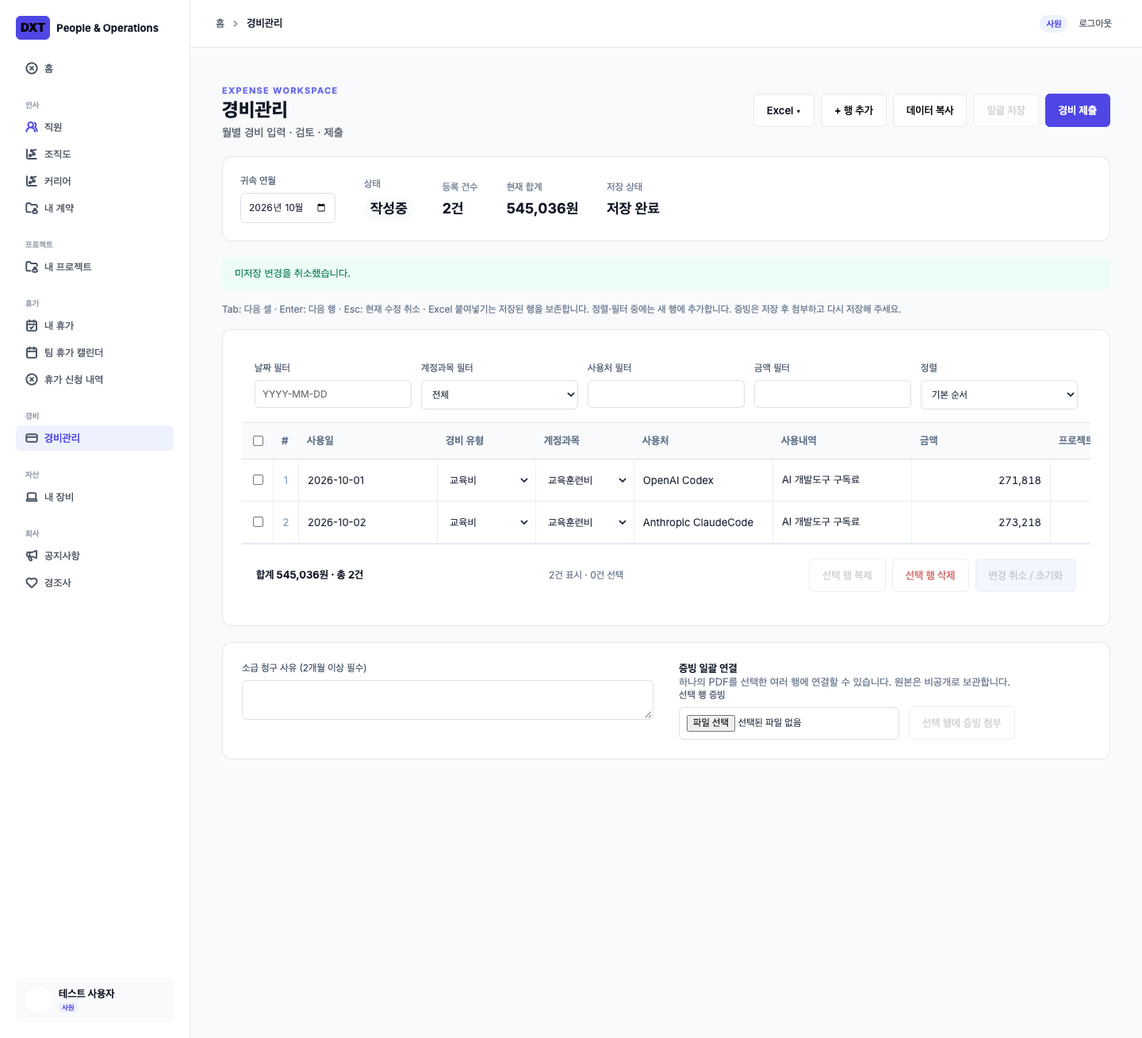
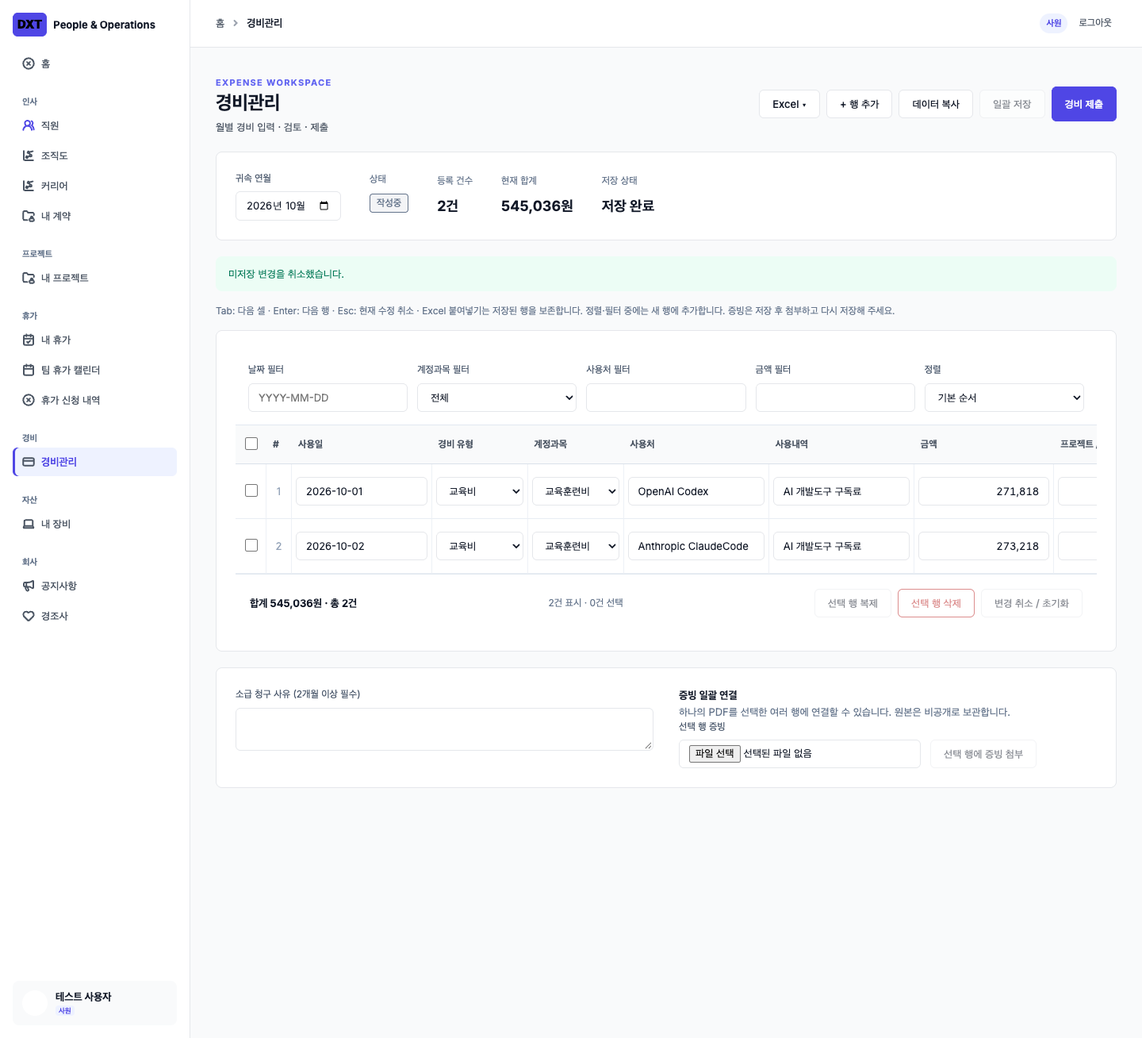
Restore submitted expense editing until payment lock

diff --git a/src/components/expenses/grid.tsx b/src/components/expenses/grid.tsx
@@ -1,4 +1,5 @@
 'use client';
+import { StatusTag } from '@/components/ui/primitives';
 import { useRouter } from 'next/navigation';
 import { memo, useCallback, useEffect, useMemo, useRef, useState } from 'react';
 import { saveExpenseGrid, previewExpenseGrid, uploadGridReceipt, submitExpenseGrid } from '@/app/actions/expenses';
@@ -45,11 +46,12 @@ export function ExpenseGrid({month,initialClaim,initialItems,initialAttachments,
  const errors=[...problems.values()].flat().filter(p=>p.severity==='ERROR');
  const accept=(d:{claim:Claim;items:ItemInput[];attachments:Attachment[]})=>{const order=new Map(rows.map((r,n)=>[r.id,n]));const saved=d.items.map(cleanItem).sort((a,b)=>(order.get(a.id)??rows.length)-(order.get(b.id)??rows.length));setClaim(d.claim);setRows(saved);setBaseline(saved);setAttachments(d.attachments);setReason(d.claim.late_reason);setSelected([]);};
  async function save(){setBusy(true);setError('');try{const result=await saveExpenseGrid(JSON.stringify({claimId:claim?.id||null,month,version:claim?.version||0,items:rows,deleted:baseline.filter(r=>!rows.some(x=>x.id===r.id)).map(({id,version})=>({id,version})),reason}));if('detail'in result&&result.detail){accept(result.detail);setMessage('저장 완료');}else setError(('error'in result?result.error:undefined)||'저장하지 못했습니다.');}finally{setBusy(false);}}
- async function submit(){setBusy(true);setError('');try{const result=await submitExpenseGrid(claim!.id,claim!.version,reason);if('detail'in result&&result.detail){accept(result.detail);setMessage('제출 완료 · 읽기 전용');setConfirmSubmit(false);}else setError(('error'in result?result.error:undefined)||'제출하지 못했습니다.');}finally{setBusy(false);}}
+ async function submit(){setBusy(true);setError('');try{const result=await submitExpenseGrid(claim!.id,claim!.version,reason);if('detail'in result&&result.detail){accept(result.detail);setMessage('제출 완료 · 지급/잠금 전까지 수정 가능');setConfirmSubmit(false);}else setError(('error'in result?result.error:undefined)||'제출하지 못했습니다.');}finally{setBusy(false);}}
  async function upload(form:HTMLFormElement,ids:string[]){if(!claim)return;setBusy(true);setError('');try{const result=await uploadGridReceipt(claim.id,new FormData(form));if('id'in result&&result.id){setRows(prev=>prev.map(r=>ids.includes(r.id)?{...r,attachment_id:result.id}:r));setAttachments(prev=>[...prev,{id:result.id,claim_id:claim.id,filename:result.filename,mime_type:'',byte_size:0,ready:true,storage_path:''}]);setMessage('증빙을 연결했습니다. 일괄 저장해 주세요.');}else setError(('error'in result?result.error:undefined)||'업로드 실패');}finally{setBusy(false);}}
  return <div className="expense-workspace">
- <header className="page-heading heading-row"><div><p className="grid-eyebrow">EXPENSE WORKSPACE{employeeName?` · ${employeeName}`:''}</p><h1>{admin?'경비 검토':'경비관리'}</h1><p>월별 경비 입력 · 검토 · 제출</p></div><div className="grid-actions"><details><summary className="button">Excel ▾</summary><div className="grid-menu"><a href={`/api/expenses/template?month=${month}`}>템플릿 다운로드</a>{!readonly&&<button onClick={()=>setImportOpen(v=>!v)}>Excel Import</button>}<a href={claim?`/api/expenses/export?claim=${claim.id}${admin?'&admin=1':''}`:undefined} aria-disabled={!claim}>Excel Export (저장된 내역)</a></div></details>{!readonly&&<button className="button" disabled={busy||rows.length>=500} onClick={()=>setRows(prev=>[...prev,blankRow(month,crypto.randomUUID())])}>+ 행 추가</button>}<button className="button" onClick={async()=>{try{await navigator.clipboard.writeText(rows.filter(r=>!selected.length||selected.includes(r.id)).map(r=>GRID_COLUMNS.map(k=>String(k==='expense_type'?PURPOSES[r.expense_type]:r[k]||'').replace(/[\t\r\n]/g,' ')).join('\t')).join('\n'));setMessage('선택한 데이터를 복사했습니다.');}catch{setError('브라우저의 클립보드 권한을 확인해 주세요.');}}}>데이터 복사</button>{!readonly&&<><button className="button" disabled={busy||!dirty||errors.length>0} onClick={save}>{busy?'처리 중…':'일괄 저장'}</button><button className="button primary" disabled={busy||dirty||!claim||!rows.length||errors.length>0} onClick={()=>setConfirmSubmit(true)}>경비 제출</button></>}</div></header>
- <section className="surface grid-overview"><label>귀속 연월<input aria-label="귀속 연월" type="month" value={month} onChange={e=>{if(!dirty||window.confirm('미저장 변경을 버리고 귀속월을 변경할까요?'))router.push(`${admin?'/admin':''}/expenses?month=${e.target.value}`);}}/></label><div><span>상태</span><strong className="expense-badge">{claim?STATUS[claim.status]:'작성 중'}{readonly?' · 읽기 전용':''}</strong></div><div><span>등록 건수</span><strong>{rows.length}건</strong></div><div><span>현재 합계</span><strong>{money(total)}원</strong></div><div><span>저장 상태</span><strong>{busy?'저장 중':dirty?'미저장 변경 있음':'저장 완료'}</strong></div></section>
+ <header className="page-heading heading-row"><div><p className="grid-eyebrow">EXPENSE WORKSPACE{employeeName?` · ${employeeName}`:''}</p><h1>{admin?'경비 검토':'경비관리'}</h1><p>월별 경비 입력 · 검토 · 제출</p></div><div className="grid-actions"><details><summary className="button">Excel ▾</summary><div className="grid-menu"><a href={`/api/expenses/template?month=${month}`}>템플릿 다운로드</a>{!readonly&&<button onClick={()=>setImportOpen(v=>!v)}>Excel Import</button>}<a href={claim?`/api/expenses/export?claim=${claim.id}${admin?'&admin=1':''}`:undefined} aria-disabled={!claim}>Excel Export (저장된 내역)</a></div></details>{!readonly&&<button className="button" disabled={busy||rows.length>=500} onClick={()=>setRows(prev=>[...prev,blankRow(month,crypto.randomUUID())])}>+ 행 추가</button>}<button className="button" onClick={async()=>{try{await navigator.clipboard.writeText(rows.filter(r=>!selected.length||selected.includes(r.id)).map(r=>GRID_COLUMNS.map(k=>String(k==='expense_type'?PURPOSES[r.expense_type]:r[k]||'').replace(/[\t\r\n]/g,' ')).join('\t')).join('\n'));setMessage('선택한 데이터를 복사했습니다.');}catch{setError('브라우저의 클립보드 권한을 확인해 주세요.');}}}>데이터 복사</button>{!readonly&&<><button className="button" disabled={busy||!dirty||errors.length>0} onClick={save}>{busy?'처리 중…':'일괄 저장'}</button>{claim?.status!=='SUBMITTED'&&<button className="button primary" disabled={busy||dirty||!claim||!rows.length||errors.length>0} onClick={()=>setConfirmSubmit(true)}>경비 제출</button>}</>}</div></header>
+ <section className="surface grid-overview"><label>귀속 연월<input aria-label="귀속 연월" type="month" value={month} onChange={e=>{if(!dirty||window.confirm('미저장 변경을 버리고 귀속월을 변경할까요?'))router.push(`${admin?'/admin':''}/expenses?month=${e.target.value}`);}}/></label><div><span>상태</span><StatusTag status={claim?.status}>{claim?STATUS[claim.status]:'작성 중'}{readonly?' · 읽기 전용':''}</StatusTag></div><div><span>등록 건수</span><strong>{rows.length}건</strong></div><div><span>현재 합계</span><strong>{money(total)}원</strong></div><div><span>저장 상태</span><strong>{busy?'저장 중':dirty?'미저장 변경 있음':'저장 완료'}</strong></div></section>
+ {claim?.status==='SUBMITTED'&&!readonly&&<p className="grid-help">제출한 경비입니다. 지급 예정일 {claim.payment_date?.slice(0,10)||'15일'}까지 수정할 수 있으며, 지급 처리·잠금 이후에는 수정할 수 없습니다. 변경 후 일괄 저장하면 제출 내역에 반영됩니다. 새 행도 증빙을 첨부한 뒤 저장해 주세요.</p>}
  {message&&<p className="success-banner" role="status">{message}</p>}{error&&<p role="alert" className="form-error">{error}</p>}
  {!readonly&&<p className="grid-help">Tab: 다음 셀 · Enter: 다음 행 · Esc: 현재 수정 취소 · Excel 붙여넣기는 저장된 행을 보존합니다. 정렬·필터 중에는 새 행에 추가합니다. 증빙은 저장 후 첨부하고 다시 저장해 주세요.</p>}
  {importOpen&&!readonly&&<form className="surface grid-import-panel" onSubmit={async e=>{e.preventDefault();const form=new FormData(e.currentTarget);setBusy(true);setError('');try{const result=await previewExpenseGrid(form);if(result.preview){setImportProblems(result.preview.problems.filter(p=>p.code==='SCHEMA'||p.code==='LEGACY_SUMMARY_IGNORED'));if(result.preview.problems.some(p=>p.code==='SCHEMA'&&p.severity==='ERROR')){setError('Excel 구조 오류를 수정한 뒤 다시 가져와 주세요.');return;}const next=importRows(rows,result.preview.items,form.get('mode')==='replace'?'replace':'append');if(next.length>500)throw new Error('최대 500행까지 입력할 수 있습니다.');setRows(next);setMessage('Excel을 작업 사본으로 가져왔습니다. 수정 후 일괄 저장해 주세요.');}else setError(('error'in result?result.error:undefined)||'가져오기 실패');}catch(err){setError((err as Error).message);}finally{setBusy(false);}}}><h2>Excel을 Grid로 가져오기</h2><input type="hidden" name="month" value={month}/><div className="field-grid"><label>Excel 파일 (.xlsx)<input name="workbook" type="file" accept=".xlsx" required/></label><label>차량 사용일 (기존 양식)<input name="vehicle_date" type="date" defaultValue={month+'-01'}/></label><label>가져오기 방식<select name="mode"><option value="append">기존 행에 추가</option><option value="replace">미저장 신규 행 교체 (저장된 행 유지)</option></select></label></div><button className="button" disabled={busy}>Grid 미리보기</button>{importProblems.map((p,i)=><p key={i} className={p.severity==='ERROR'?'form-error':'expense-warning'}>{p.origin} · {p.message}</p>)}</form>}
@@ -61,6 +63,6 @@ export function ExpenseGrid({month,initialClaim,initialItems,initialAttachments,
  {['FUEL','TOLL'].includes(detail.expense_type)&&<section className="expense-vehicle"><h3>차량 이동 상세</h3><div className="field-grid">{(['project_or_trip_name','origin','destination','one_way_amount','trip_count'] as const).map((key,i)=><label key={key}>{['프로젝트 / 출장명','출발지','도착지','편도 금액 (원)','횟수'][i]}<input type={i>2?'number':'text'} value={detail.vehicle?.[key]||''} onChange={e=>{const v={project_or_trip_name:detail.trip_context,origin:'',destination:'',one_way_amount:0,trip_count:1,...detail.vehicle,[key]:i>2?Number(e.target.value):e.target.value};onChange(detail.id,{vehicle:v,amount:v.one_way_amount*v.trip_count,legacy_summary:false,trip_context:v.project_or_trip_name});}}/></label>)}</div><strong>계산 금액 {money(detail.amount)}원</strong><p>편도금액 × 횟수 · 서버에서 다시 계산합니다.</p></section>}
  {detail.expense_type==='DINING'&&<section><h3>회식 참석자 / 월 한도 사용액</h3>{employees.map(e=>{const attendee=detail.attendees.find(a=>a.employee_id===e.id);return <div key={e.id} className="attendee-row"><label><input type="checkbox" checked={!!attendee} onChange={event=>onChange(detail.id,{attendees:event.target.checked?[...detail.attendees,{employee_id:e.id,allocated_amount:0}]:detail.attendees.filter(a=>a.employee_id!==e.id)})}/>{e.name} · {e.company_email}</label>{attendee&&<input aria-label={`${e.name} 한도 사용액`} type="number" min="1" max="30000" value={attendee.allocated_amount} onChange={event=>onChange(detail.id,{attendees:detail.attendees.map(a=>a.employee_id===e.id?{...a,allocated_amount:Number(event.target.value)}:a)})}/>}</div>;})}</section>}
  <label>비고<textarea value={detail.notes} maxLength={2000} onChange={e=>onChange(detail.id,{notes:e.target.value})}/></label></fieldset><div>{detail.attachment_id&&<a href={`/api/expenses/receipts/${detail.attachment_id}`}>{attachments.find(a=>a.id===detail.attachment_id)?.filename||'증빙'} 다운로드</a>}{!readonly&&<form onSubmit={e=>{e.preventDefault();void upload(e.currentTarget,[detail.id]);}}><label>영수증 / 증빙<input type="file" name="receipt" accept="application/pdf,image/png,image/jpeg" required disabled={!claim||busy}/></label><button className="button" disabled={!claim||busy}>이 행에 증빙 첨부</button></form>}</div></aside>}
- {confirmSubmit&&<section role="region" aria-label="경비 제출 확인" className="surface grid-confirm"><h2>월 경비를 제출할까요?</h2><p>{rows.length}건 · {money(total)}원. 제출 후에는 수정할 수 없습니다.</p>{[...claimProblems(month,reason),...[...problems.values()].flat()].map((p,i)=><p className="expense-warning" key={i}>{p.message}</p>)}<div className="grid-actions"><button className="button" disabled={busy} onClick={()=>setConfirmSubmit(false)}>돌아가기</button><button className="button primary" disabled={busy} onClick={submit}>확인 후 제출</button></div></section>}
+ {confirmSubmit&&<section role="region" aria-label="경비 제출 확인" className="surface grid-confirm"><h2>월 경비를 제출할까요?</h2><p>{rows.length}건 · {money(total)}원. 제출 후에도 지급일(15일)까지 수정할 수 있습니다. 지급 처리·잠금 또는 지급 기간 종료 후에는 읽기 전용입니다.</p>{[...claimProblems(month,reason),...[...problems.values()].flat()].map((p,i)=><p className="expense-warning" key={i}>{p.message}</p>)}<div className="grid-actions"><button className="button" disabled={busy} onClick={()=>setConfirmSubmit(false)}>돌아가기</button><button className="button primary" disabled={busy} onClick={submit}>확인 후 제출</button></div></section>}
  </div>;
 }

diff --git a/src/components/expenses/screens.tsx b/src/components/expenses/screens.tsx
@@ -1,3 +1,4 @@
+import { StatusTag } from '@/components/ui/primitives';
 import { ExpenseGrid } from './grid';
 import Link from 'next/link';
 import { notFound } from 'next/navigation';
@@ -8,8 +9,8 @@ import type { SearchParams } from '@/lib/employees/data';
 import { ClaimAction, ExpenseForm, ImportForm } from './forms';
 const money=(v:number)=>`₩${v.toLocaleString('ko-KR')}`;
 function Policy(){return <aside className="surface expense-policy"><h2>경비 등록 안내</h2><dl><dt>야근식대</dt><dd>10,000원 초과 시 확인 필요</dd><dt>회식비</dt><dd>월 3만원/인, 참석자 필수</dd><dt>택시비</dt><dd>대표 승인 하에 가능 (회사 정책)</dd><dt>증빙</dt><dd>영수증/PDF 필수</dd><dt>마감</dt><dd>다음 달 첫째 주 주말</dd></dl></aside>;}
-function LockPolicy(){return <div className="expense-info"><strong>지급일: 매월 15일</strong><p>제출된 경비는 읽기 전용입니다. 지급일과 지급·잠금 처리는 기존 기준을 따릅니다. 별도 승인/반려 기능은 운영하지 않습니다.</p></div>;}
-function Badge({claim}:{claim:Claim}){return <span className={`expense-badge ${claim.status==='DRAFT'?'':'success'}`}>{claim.status==='SUBMITTED'&&claim.payment_date&&today()>claim.payment_date?'제출완료 · 잠금':STATUS[claim.status]}</span>;}
+function LockPolicy(){return <div className="expense-info"><strong>지급일: 매월 15일</strong><p>제출 후에도 지급일(15일)까지 수정할 수 있습니다. 지급 처리·잠금 또는 지급 기간 종료 후에는 읽기 전용입니다. 별도 승인/반려 기능은 운영하지 않습니다.</p></div>;}
+function Badge({claim}:{claim:Claim}){return <StatusTag status={claim.status}>{claim.status==='SUBMITTED'&&claim.payment_date&&today()>claim.payment_date?'제출완료 · 잠금':STATUS[claim.status]}</StatusTag>;}
 export async function ExpenseList({query,admin=false}:{query:SearchParams;admin?:boolean}) {
  const options=await expenseOptions();const month=typeof query.month==='string'&&/^\d{4}-(0[1-9]|1[0-2])$/.test(query.month)?query.month:today().slice(0,7);
  if(!admin){const c=options.selfId?(await expenseRows<Claim>('expense_claim',CLAIM_COLUMNS,{employee_id:options.selfId,usage_month:month+'-01'}))[0]:undefined;const detail=c?await expenseDetail(c.id):null;return <ExpenseGrid accounts={options.accounts} key={month} month={month} initialClaim={detail?.claim} initialItems={detail?.items||[]} initialAttachments={detail?.attachments||[]} employees={options.employees.filter(e=>e.employment_status==='ACTIVE')} projects={options.projects}/>;}
@@ -36,6 +37,6 @@ export async function ExpenseDetail({id,query,admin=false}:{id:string;query:Sear
  {admin&&<ExpenseGrid accounts={options.accounts} month={claim.usage_month.slice(0,7)} initialClaim={claim} initialItems={items} initialAttachments={attachments} employees={options.employees} projects={options.projects} admin employeeName={person?.name}/>}
  {problems.map((p,n)=><div key={n} className={p.severity==='ERROR'?'form-error':'expense-warning'}><strong>{p.severity==='ERROR'?'Error':'Warning'}</strong><p>{p.message}</p></div>)}
  {items.map(i=><section className="surface expense-item-card" key={i.id}><div className="heading-row"><div><h2>{PURPOSES[i.expense_type]} · {i.merchant}</h2><p>{i.usage_date} · {i.description}</p></div><strong>{money(i.amount)}</strong></div><p>{i.payment_method==='PERSONAL_CARD'?'개인카드':'현금'} · {i.evidence_type} {admin&&`· ${i.account_category}`}</p>{i.trip_context&&<p>프로젝트/출장: {i.trip_context}</p>}{i.vehicle&&<p>{i.vehicle.origin} → {i.vehicle.destination} · {money(i.vehicle.one_way_amount)} × {i.vehicle.trip_count}회 = {money(i.amount)}</p>}{i.attendees.length>0&&<p>참석자: {i.attendees.map(a=>`${options.employees.find(e=>e.id===a.employee_id)?.name||a.employee_id} (${money(a.allocated_amount)})`).join(', ')}</p>}{i.notes&&<p className="preserve-lines">{i.notes}</p>}{i.import_filename&&<p className="muted">{i.import_filename} · {i.import_origin}</p>}<div className="heading-row"><a href={`/api/expenses/receipts/${i.attachment_id}`}>{attachments.find(a=>a.id===i.attachment_id)?.filename||'증빙'} 다운로드</a>{!admin&&editable(claim)&&<Link className="button" href={`/expenses/items/${i.id}/edit?claim=${claim.id}`}>수정</Link>}</div></section>)}
- <section className="surface expense-item-card"><h2>제출 / 지급 내역</h2><p>제출일: {claim.submitted_at?localDate(claim.submitted_at):'미제출'} · 지급 예정일: {claim.payment_date||'제출 시 결정'} · 잠금일: {claim.locked_at?localDate(claim.locked_at):'—'}</p>{claim.late_reason&&<p>소급 사유: {claim.late_reason}</p>}{!admin&&editable(claim)&&items.length>0&&<ClaimAction claim={claim} action="SUBMIT"/>}{admin&&claim.status==='SUBMITTED'&&<ClaimAction claim={claim} action="LOCK"/>}{admin&&['SUBMITTED','LOCKED'].includes(claim.status)&&<ClaimAction claim={claim} action="PAY"/>}{!editable(claim)&&<p className="expense-info">{claim.status==='SUBMITTED'&&!claim.locked_at?'제출된 경비와 증빙은 읽기 전용입니다.':'지급 기간이 잠겼습니다. 경비와 증빙은 읽기 전용입니다.'}</p>}</section><LockPolicy/></>;
+ <section className="surface expense-item-card"><h2>제출 / 지급 내역</h2><p>제출일: {claim.submitted_at?localDate(claim.submitted_at):'미제출'} · 지급 예정일: {claim.payment_date||'제출 시 결정'} · 잠금일: {claim.locked_at?localDate(claim.locked_at):'—'}</p>{claim.late_reason&&<p>소급 사유: {claim.late_reason}</p>}{!admin&&editable(claim)&&items.length>0&&<ClaimAction claim={claim} action="SUBMIT"/>}{admin&&claim.status==='SUBMITTED'&&<ClaimAction claim={claim} action="LOCK"/>}{admin&&['SUBMITTED','LOCKED'].includes(claim.status)&&<ClaimAction claim={claim} action="PAY"/>}{!editable(claim)&&<p className="expense-info">{claim.status==='SUBMITTED'&&!claim.locked_at?'지급 기간이 종료되었습니다. 경비와 증빙은 읽기 전용입니다.':'지급 기간이 잠겼습니다. 경비와 증빙은 읽기 전용입니다.'}</p>}</section><LockPolicy/></>;
 }
 export function ExpenseImport(){return <><div className="page-heading heading-row"><div><h1>Excel 업로드</h1><p>공식 경비 템플릿을 업로드하고 등록 전 검증 결과를 확인합니다.</p></div><a className="button primary" download href="/api/expenses/template">템플릿 다운로드</a></div><ImportForm/></>;}

diff --git a/tests/expense-grid.test.ts b/tests/expense-grid.test.ts
@@ -8,7 +8,7 @@ import {claimId,otherClaimId,itemId,otherItemId,receiptId,otherReceiptId,current
 import {blankRow,duplicateRow,importRows,pasteRows,gridProblems} from '../src/lib/expenses/grid';
 import type {ItemInput} from '../src/lib/expenses/types';
 const migration=readFileSync('supabase/migrations/20261120124228_expense_grid_workspace.sql','utf8');
-async function database(){const db=await contractsDatabase();await db.exec(migration);return db;}
+async function database(){const db=await contractsDatabase();await db.exec(migration);await db.exec(readFileSync('supabase/migrations/20261120135814_restore_expense_payment_edit_window.sql','utf8'));return db;}
 const row=expenseValues as ItemInput;
 const save=(db:Awaited<ReturnType<typeof database>>,items:unknown[],deleted:unknown[]=[],version=1,claim=claimId,user='employee')=>asUser(db,user,tx=>tx.query('select save_expense_grid($1,$2,$3,$4,$5,$6)',[claim,currentMonth+'-01',version,JSON.stringify(items),JSON.stringify(deleted),'']));
 test('grid paste preserves persisted rows, validates malformed data, duplicates/imports/reset remain local',()=>{
@@ -30,8 +30,8 @@ test('grid snapshot atomically creates/updates/deletes, rejects stale replay and
  await save(db,[{...fresh,version:1,attachment_id:receiptId}],[{id:itemId,version:2}],2);
  assert.equal((await db.query('select * from expense_item where claim_id=$1',[claimId])).rows.length,1);
  await asUser(db,'employee',tx=>tx.query("select submit_expense_claim($1,3,'')",[claimId]));
- await assert.rejects(save(db,[{...fresh,version:2,attachment_id:receiptId}],[],4));
- await assert.rejects(asUser(db,'employee',tx=>tx.query("select save_expense_items($1,$2,'')",[claimId,JSON.stringify([{...fresh,version:2,attachment_id:receiptId}])])));
+ await save(db,[{...fresh,version:2,attachment_id:receiptId}],[],4);
+ await asUser(db,'employee',tx=>tx.query("select save_expense_items($1,$2,'')",[claimId,JSON.stringify([{...fresh,version:3,attachment_id:receiptId}])]));
  }finally{await db.close();}
 });
 test('grid rejects cross-user claim/item/deletion/receipt, ownership and unknown payload; managers cannot author for others',async()=>{
@@ -62,10 +62,10 @@ test('dining snapshot redistribution releases old allocation before validating a
  assert.equal(Number((await db.query<{sum:string}>('select sum(allocated_amount) from expense_attendee')).rows[0].sum),30000);
  }finally{await db.close();}
 });
-test('grid migration preserves private receipt RLS and denies every submitted/locked/paid write path',async()=>{
+test('grid migration preserves private receipt RLS and denies locked/paid write paths',async()=>{
  const db=await database();try{
  await asUser(db,'employee',async tx=>{assert.equal((await tx.query('select * from expense_attachment where id=$1',[otherReceiptId])).rows.length,0);assert.equal((await tx.query('select * from storage.objects where name=$1',[otherClaimId+'/'+otherReceiptId])).rows.length,0);});
- for(const status of ['SUBMITTED','LOCKED','PAID']){
+ for(const status of ['LOCKED','PAID']){
   await db.query('update expense_claim set status=$1 where id=$2',[status,claimId]);
   await assert.rejects(save(db,[row]));
   await assert.rejects(save(db,[],[{id:itemId,version:1}]));
@@ -73,4 +73,36 @@ test('grid migration preserves private receipt RLS and denies every submitted/lo
  }
  await assert.rejects(asUser(db,'leader',tx=>tx.query("select manage_expense_claim($1,1,'PAY')",[claimId])));
  }finally{await db.close();}
+});
+
+test('submitted Grid edits retain payment window, evidence, ownership and version protection',async()=>{
+ const db=await database();try{
+  await db.exec(`create or replace function public.expense_today() returns date language sql stable as $$select '${currentMonth}-15'::date$$`);
+  await db.query("update expense_claim set status='SUBMITTED',submitted_at=now(),payment_date=$1 where id=$2",[currentMonth+'-15',claimId]);
+  await save(db,[{...row,amount:11000}]);
+  await assert.rejects(save(db,[row])); // stale version still fails after submission
+  await assert.rejects(save(db,[{...row,version:2,attachment_id:''}],[],2));
+  await assert.rejects(save(db,[{...row,version:2,attachment_id:otherReceiptId}],[],2));
+  await assert.rejects(save(db,[{...row,version:2}],[],2,claimId,'leader'));
+  await asUser(db,'employee',tx=>tx.query("select save_expense_items($1,$2,'')",[claimId,JSON.stringify([{...row,version:2,amount:10000}])]));
+  await asUser(db,'employee',tx=>tx.query("select reserve_expense_attachment($1,'new.pdf','application/pdf',10)",[claimId]));
+  const state=(await db.query<{status:string;version:number}>('select status,version from expense_claim where id=$1',[claimId])).rows[0];
+  assert.equal(state.status,'SUBMITTED');
+  for(const lock of ["payment_date=public.expense_today()-1","payment_date=public.expense_today(),locked_at=now()","locked_at=null,status='LOCKED'","status='PAID'"]){
+   await db.exec(`update expense_claim set ${lock} where id='${claimId}'`);
+   await assert.rejects(save(db,[{...row,version:3}],[],state.version));
+   await assert.rejects(save(db,[],[{id:itemId,version:3}],state.version));
+   await assert.rejects(asUser(db,'employee',tx=>tx.query("select save_expense_items($1,$2,'')",[claimId,JSON.stringify([{...row,version:3}])])));
+   await assert.rejects(asUser(db,'employee',tx=>tx.query("select reserve_expense_attachment($1,'locked.pdf','application/pdf',10)",[claimId])));
+  }
+  assert.equal((await db.query<{amount:number}>('select amount from expense_item where id=$1',[itemId])).rows[0].amount,10000);
+ }finally{await db.close();}
+});
+
+test('application payment boundary includes Seoul payment day and denies explicit locks',async()=>{
+ const {editable}=await import('../src/lib/expenses/validation');
+ const claim={id:claimId,employee_id:'employee',usage_month:'2026-10-01',status:'SUBMITTED' as const,submitted_at:'2026-11-01',late_reason:'',locked_at:null,payment_date:'2026-11-15',version:1};
+ assert.equal(editable(claim,'2026-11-14'),true);assert.equal(editable(claim,'2026-11-15'),true);assert.equal(editable(claim,'2026-11-16'),false);
+ assert.equal(editable({...claim,locked_at:'2026-11-14'},'2026-11-14'),false);
+ for(const status of ['LOCKED','PAID'] as const)assert.equal(editable({...claim,status},'2026-11-14'),false);
 });

diff --git a/tests/e2e/expense-grid.spec.ts b/tests/e2e/expense-grid.spec.ts
@@ -5,7 +5,7 @@ import {today} from '../../src/lib/expenses/validation';
 import {templateWorkbook} from '../../src/lib/expenses/workbook';
 const d=new Date(today()+'T00:00:00Z');d.setUTCMonth(d.getUTCMonth()-1,1);const month=d.toISOString().slice(0,7);
 const pdf={name:'grid-receipts.pdf',mimeType:'application/pdf',buffer:Buffer.from('%PDF-1.4\nsynthetic test evidence\n%%EOF')};
-test('monthly grid paste, edit, duplicate, delete, reset, import, vehicle, evidence and read-only submission',async({page,context})=>{
+test('monthly grid paste, edit, duplicate, delete, reset, import, vehicle, evidence and post-submit edit window and payment lock',async({page,context})=>{
  await loginAs(context,'employee');await page.goto(`/expenses?month=${month}`);
  await expect(page.getByRole('heading',{name:'경비관리',exact:true})).toBeVisible();
  await page.getByRole('button',{name:'+ 행 추가',exact:true}).click();
@@ -28,8 +28,10 @@ test('monthly grid paste, edit, duplicate, delete, reset, import, vehicle, evide
  await page.getByRole('button',{name:'상세 닫기'}).click();await page.getByRole('button',{name:'일괄 저장',exact:true}).click();await expect(page.getByRole('status')).toHaveText('저장 완료');
  await page.getByLabel('표시된 행 전체 선택').check();await page.getByLabel('선택 행 증빙',{exact:true}).setInputFiles(pdf);await page.getByRole('button',{name:'선택 행에 증빙 첨부'}).click();await expect(page.getByRole('status')).toContainText('증빙을 연결');await page.getByRole('button',{name:'일괄 저장',exact:true}).click();await expect(page.getByRole('status')).toHaveText('저장 완료');
  const exportUrl=await page.getByRole('link',{name:'Excel Export (저장된 내역)'}).getAttribute('href');const exported=await context.request.get(exportUrl!);expect(exported.status()).toBe(200);const xlsx=new ExcelJS.Workbook();await xlsx.xlsx.load(await exported.body() as never);expect(xlsx.getWorksheet('주유비,통행비')!.getCell('G2').value).toBe(3);
- await page.getByRole('button',{name:'경비 제출',exact:true}).click();await page.getByRole('button',{name:'확인 후 제출'}).click();await expect(page.getByRole('status')).toHaveText('제출 완료 · 읽기 전용');await expect(page.getByLabel('1행 사용처',{exact:true})).toBeDisabled();await page.screenshot({path:'docs/screenshots/issue23-submitted-grid.png',fullPage:true});
+ await page.getByRole('button',{name:'경비 제출',exact:true}).click();await page.getByRole('button',{name:'확인 후 제출'}).click();await expect(page.getByRole('status')).toHaveText('제출 완료 · 지급/잠금 전까지 수정 가능');await expect(page.getByLabel('1행 사용처',{exact:true})).toBeEnabled();await expect(page.getByRole('button',{name:'경비 제출',exact:true})).toHaveCount(0);await page.getByLabel('1행 사용처',{exact:true}).fill('제출 후 수정 식당');await page.getByRole('button',{name:'일괄 저장',exact:true}).click();await expect(page.getByRole('status')).toHaveText('저장 완료');await page.reload();await expect(page.getByLabel('1행 사용처',{exact:true})).toHaveValue('제출 후 수정 식당');await page.screenshot({path:'docs/screenshots/issue23-submitted-grid.png',fullPage:true});
+ const stale=await context.newPage();await stale.goto(`/expenses?month=${month}`);await stale.getByLabel('1행 사용처',{exact:true}).fill('잠금 후 저장 시도');
  const claim=new URL(exportUrl!,'http://localhost').searchParams.get('claim');await loginAs(context,'expense');await page.goto(`/admin/expenses/${claim}`);await expect(page.getByLabel('1행 사용처',{exact:true})).toBeDisabled();await page.screenshot({path:'docs/screenshots/issue23-admin-grid.png',fullPage:true});
+ await page.getByRole('button',{name:'지급 기간 잠금',exact:true}).click();await expect(page.getByRole('status')).toContainText('저장했습니다.');await loginAs(context,'employee');await stale.getByRole('button',{name:'일괄 저장',exact:true}).click();await expect(stale.locator('.form-error[role=alert]')).toContainText('수정 가능한 본인 경비가 아닙니다.');await stale.close();await page.goto(`/expenses?month=${month}`);await expect(page.getByLabel('1행 사용처',{exact:true})).toBeDisabled();await expect(page.getByRole('button',{name:'일괄 저장',exact:true})).toHaveCount(0);
 });
 test('grid stale tab and session-switched save cannot overwrite persisted data',async({page,context})=>{
  await loginAs(context,'employee');await page.goto('/expenses');const second=await context.newPage();await second.goto('/expenses');

diff --git a/src/app/actions/expenses.ts b/src/app/actions/expenses.ts
@@ -88,10 +88,11 @@ export async function saveExpenseGrid(payload:string) {
   if(payload.length>1500000)throw new Error('입력 데이터가 너무 큽니다.');
   const value=JSON.parse(payload);
   if(!value||Object.keys(value).some(k=>!['claimId','month','version','items','deleted','reason'].includes(k))||!/^\d{4}-(0[1-9]|1[0-2])$/.test(value.month)||!Number.isInteger(value.version)||value.version<0||typeof value.reason!=='string'||value.reason.length>2000||!Array.isArray(value.items)||value.items.length>500||!Array.isArray(value.deleted)||value.deleted.length>500)throw new Error('일괄 저장 형식을 확인해 주세요.');
-  if(value.claimId)await ownClaim(value.claimId);
+  const claim=value.claimId?await ownClaim(value.claimId):null;
   const {gridProblems}=await import('@/lib/expenses/grid');
   const keys=['id','version','usage_date','expense_type','merchant','description','account_category','amount','evidence_type','payment_method','project_id','trip_context','notes','attachment_id','attendees','vehicle','legacy_summary','import_filename','import_origin'];
   for(const row of value.items){if(!row||Object.keys(row).some(k=>!keys.includes(k))||!isUuid(row.id)||!Number.isInteger(row.version)||row.version<0||!Array.isArray(row.attendees)||['usage_date','merchant','description','account_category','notes','trip_context'].some(k=>typeof row[k]!=='string'))throw new Error('행 입력 형식을 확인해 주세요.');}
+  if(claim?.status==='SUBMITTED'&&value.items.some((row:ItemInput)=>!isUuid(row.attachment_id)))throw new Error('제출된 경비는 모든 항목에 증빙이 필요합니다. 증빙을 연결한 뒤 저장해 주세요.');
   const errors=[...claimProblems(value.month,value.reason),...value.items.flatMap((r:ItemInput)=>gridProblems(r,value.items,value.month))].filter(p=>p.severity==='ERROR');
   if(errors.length)throw new Error(errors.map(p=>p.message).join(' '));
   const {data:id,error}=await(await employeeClient()).rpc('save_expense_grid',{p_claim:value.claimId||null,p_month:value.month+'-01',p_version:value.version,p_items:value.items,p_deleted:value.deleted,p_reason:value.reason});if(error)throw error;

diff --git a/src/lib/expenses/validation.ts b/src/lib/expenses/validation.ts
@@ -5,7 +5,7 @@ export function localDate(value:string) { return /^\d{4}-\d{2}-\d{2}$/.test(valu
 export function today() { return new Intl.DateTimeFormat('sv-SE',{timeZone:'Asia/Seoul'}).format(new Date()); }
 export function monthAge(month:string,now=today()) { return (Number(now.slice(0,4))-Number(month.slice(0,4)))*12+Number(now.slice(5,7))-Number(month.slice(5,7)); }
 export function deadline(month:string) { const d=new Date(`${month.slice(0,7)}-01T00:00:00Z`); d.setUTCMonth(d.getUTCMonth()+1); d.setUTCDate(1+(7-d.getUTCDay())%7); return d.toISOString().slice(0,10); }
-export function editable(c:Claim,now=today()) { return c.status==='DRAFT'&&!c.locked_at&&(!c.payment_date||now<=c.payment_date); }
+export function editable(c:Claim,now=today()) { return ['DRAFT','SUBMITTED'].includes(c.status)&&!c.locked_at&&(!c.payment_date||now<=c.payment_date); }
 export function itemProblems(item:ItemInput, existing:ItemInput[]=[], now=today()):Problem[] {
  const out:Problem[]=[]; const add=(severity:Problem['severity'],code:string,message:string)=>out.push({severity,code,message,origin:item.import_origin});
  if(!validDate(item.usage_date)||item.usage_date>now) add('ERROR','DATE','사용일을 올바르게 입력해 주세요. 미래 사용일은 등록할 수 없습니다.');

diff --git a/tests/e2e/mock-supabase.ts b/tests/e2e/mock-supabase.ts
@@ -16,6 +16,7 @@ import { PROJECT_COLUMNS, ASSIGNMENT_COLUMNS, CAREER_COLUMNS, EXTENSION_COLUMNS 
 async function main() {
 const db = await contractsDatabase();
 await db.exec(readFileSync('supabase/migrations/20261120124228_expense_grid_workspace.sql','utf8'));
+await db.exec(readFileSync('supabase/migrations/20261120135814_restore_expense_payment_edit_window.sql','utf8'));
 const files=new Map<string,Buffer>([[`${claimId}/${receiptId}`,Buffer.from('%PDF-1.4 own')],[`${otherClaimId}/${otherReceiptId}`,Buffer.from('%PDF-1.4 other')]]);
 files.set(`${offboardingId}/${documentId}`,Buffer.from(letter));
 const tables: Record<string,string[]> = {

diff --git a/docs/ISSUE_23_DELIVERY.md b/docs/ISSUE_23_DELIVERY.md
@@ -40,8 +40,9 @@ merge order. Existing permissions/capability functions, RLS and Storage policies
   account, numeric/type constraints and cumulative attendee limits are checked again.
 - Duplicate, overtime and overall dining overages remain warnings. Retroactive reasons,
   first-weekend deadline and payment-cycle calculations retain their existing semantics.
-- **Explicit Issue #23 lifecycle requirement supersedes the older Phase 5 edit window:**
-  SUBMITTED is now read-only immediately, as are LOCKED/PAID. `expense_editable` governs
+- **DXT payment/lock policy preserved (PR #24 review correction):**
+  SUBMITTED stays editable through payment_date (inclusive, Asia/Seoul). LOCKED/PAID,
+  locked_at or an elapsed payment period make it read-only. `expense_editable` governs
   legacy writers, receipt reservation/finalization and new bulk saves consistently.
   No approval, rejection or reopening workflow was added.
 - Audit events contain actor/action/claim reference only; no receipt contents are logged.
@@ -96,3 +97,26 @@ migration before the UI. Failed uploads can leave unused private attachment rese
 no automatic object deletion or cron was introduced. Working copies are memory-only and
 must be saved before leaving; browser unload and month changes warn about dirty state.
 No historic data migration, automatic Gmail, cron, Phase 4B or corporate-card workflow.
+
+## Review correction: existing payment/lock policy
+
+Rebased on main `521ea36` (merged DXT Design System). The existing Grid migration is
+unchanged. Apply `20261120135814_restore_expense_payment_edit_window.sql` after it:
+`expense_editable` again admits the owner in DRAFT or SUBMITTED, through payment_date
+inclusive in Asia/Seoul, unless locked_at is set. LOCKED/PAID always deny editing.
+All legacy writers, Grid saves and receipt reservations/finalization share this helper.
+The new trigger preserves mandatory evidence on submitted item edits; draft evidence
+remains optional. Server actions repeat ownership/editability and evidence checks.
+Payment scheduling, first submitted_at, claim state, optimistic versions and atomic
+Grid snapshots are preserved. No approval/reject/reopen workflow is introduced.
+
+The UI now explains the post-submit edit window, saves changes directly to the same
+submitted claim and uses DXT StatusTag for state. It does not offer a redundant submit
+button after submission. Admin review remains read-only with its existing lock/pay
+controls. Tests cover inclusive payment day, elapsed payment period, explicit locks,
+paid state, evidence and cross-user denial, plus a stale open editor after admin lock.
+
+A separate synthetic compatibility run applied PR #20's asset-transfer migration before
+both expense migrations: all 6 asset-transfer database tests passed. Their timestamps
+are ordered; no PR #20 merge or applied-migration edits are needed for this update.
+Hosted Supabase advisors/staging were not run; this task does not touch a hosted database.

diff --git a/docs/UI_IMPLEMENTATION.md b/docs/UI_IMPLEMENTATION.md
@@ -120,6 +120,6 @@ in `docs/screenshots/contracts-*` use synthetic data and TEST seal images.
 
 The monthly `/expenses` Grid supersedes the upload/form-first primary UX described above.
 Excel is a menu (template / import into working copy / saved export). Explicit bulk save
-precedes evidence attachment and submission. Submitted/locked/paid views and admin review
-use read-only controls. Existing form/import URLs are compatibility surfaces, not sidebar
+precedes evidence attachment and submission. Submitted claims retain editing through the payment/lock cutoff. Locked/paid, expired
+payment periods and admin review use read-only controls. Existing form/import URLs are compatibility surfaces, not sidebar
 entries. See `ISSUE_23_DELIVERY.md` for keyboard/paste, validation and screenshot evidence.

diff --git a/docs/BUSINESS_RULES.md b/docs/BUSINESS_RULES.md
@@ -193,7 +193,8 @@ Categories:
 
 ## Expense lifecycle clarification — Issue #23
 
-The monthly Grid requirement explicitly makes SUBMITTED read-only, followed by LOCKED
-and PAID. This supersedes the older post-submission editing window above. Drafts may be
-saved before evidence is attached; submission still requires all evidence. Payment dates,
+The Grid preserves the existing post-submission edit window: SUBMITTED remains editable
+through its payment date (15th, Asia/Seoul), unless locked or paid earlier. LOCKED/PAID,
+locked_at, and an elapsed payment_date make it read-only. Drafts may be saved before
+evidence is attached; submission and subsequent edits require evidence. Payment dates,
 deadline, retroactive reasons, warning/allowance rules and no-approval policy are unchanged.

diff --git a/docs/PERMISSIONS.md b/docs/PERMISSIONS.md
@@ -171,4 +171,5 @@ not broaden contract body, signature or employee-history access.
 Expense Grid preserves owner-only authoring. EXPENSE_MANAGE allows review/export/lock/pay,
 never writing another employee's Grid. Bulk mutation repeats identity, claim/item ownership,
 version and DRAFT-state checks in PostgreSQL. Evidence may be absent while drafting but is
-required on submit. SUBMITTED is read-only per Issue #23, including legacy writer RPCs.
+required on submit. SUBMITTED retains the existing payment-date edit window, including legacy writer RPCs.
+LOCKED/PAID, locked_at and elapsed payment periods deny all employee writers.

diff --git a/docs/DATA_MODEL.md b/docs/DATA_MODEL.md
@@ -321,4 +321,4 @@ See `EMPLOYMENT_CONTRACT_DELIVERY.md` for lifecycle and recovery.
 pre-existing OTHER fallback). Draft item evidence may be absent; submission enforces a
 ready same-claim attachment. Full-snapshot bulk save validates claim/item versions and
 versioned deletions under a transaction lock. No persistent draft domain/table is added.
-SUBMITTED/LOCKED/PAID items are read-only. See `ISSUE_23_DELIVERY.md`.
+SUBMITTED items remain editable until the existing payment/lock cutoff; LOCKED/PAID are read-only. See `ISSUE_23_DELIVERY.md`.
